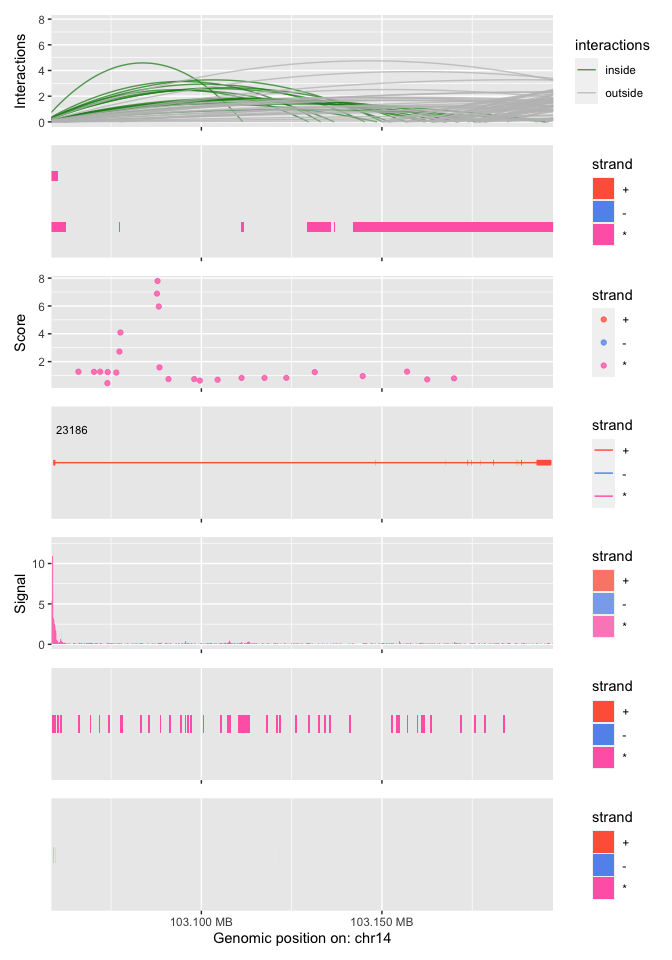
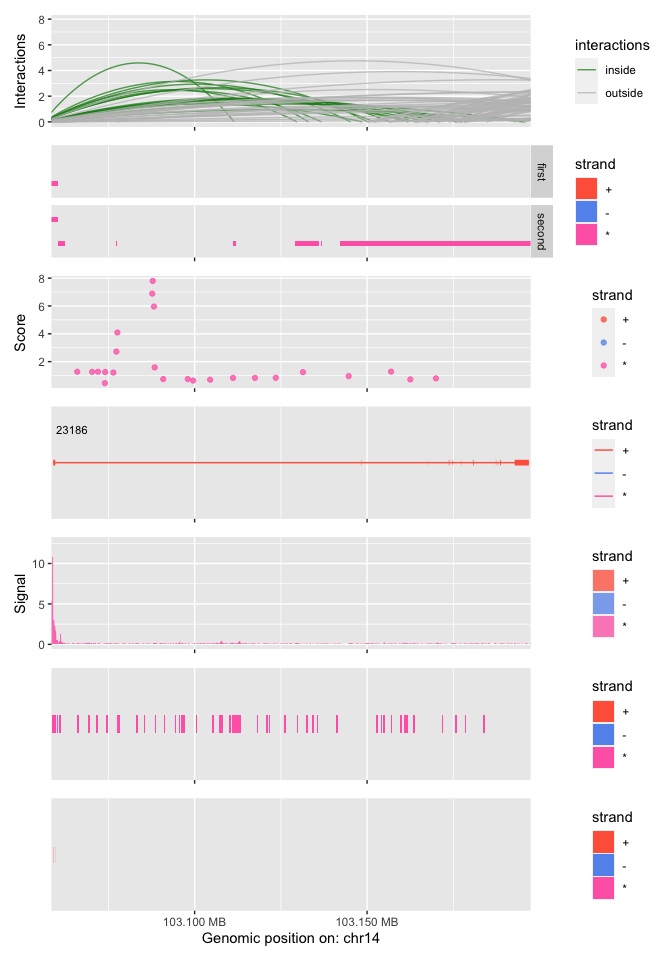
Skip facetting if plot region is empty and bumped version.

diff --git a/README.md b/README.md
@@ -180,6 +180,7 @@ baits_track <- PCHiC %>%
     browseIntervals(region=gene_window)
 #> Plotting region size: 138918
 #> Features within region: 27
+#> Found facets...
 ```
 
 Plot everything together:
@@ -337,4 +338,4 @@ TBA
 
 ### Tweaking name
 
-TBA
+TBA…
